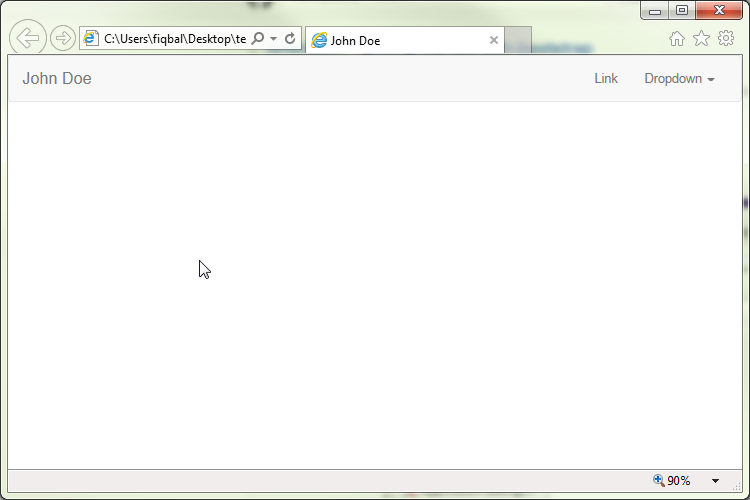
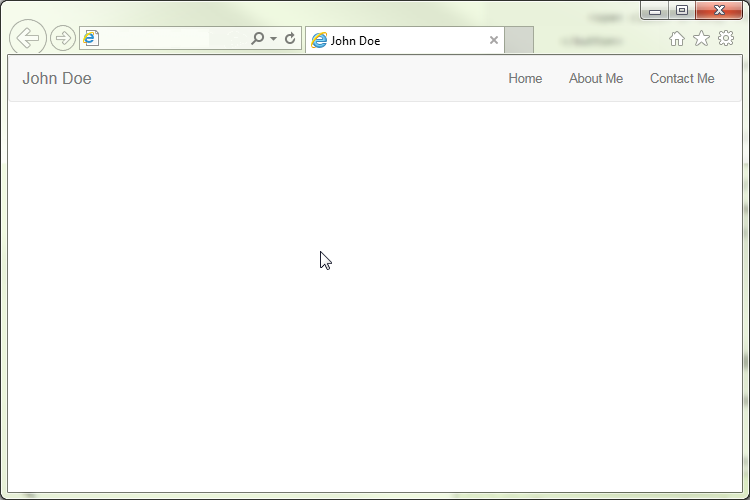
updated book

diff --git a/code/template.html b/code/template.html
@@ -19,7 +19,6 @@
 
 			<div class="collapse navbar-collapse" id="bs-example-navbar-collapse-1">
 				<ul class="nav navbar-nav navbar-right">
-					<li><a href="#">Link</a></li>
 					<li><a href="index.html">Home</a></li>
 					<li><a href="#">About Me</a></li>
 					<li><a href="#">Contact Me</a></li>
@@ -27,6 +26,14 @@
 			</div>
 		</div>
 	</nav>
+
+	<div class="container">
+		<!-- Page content will eventually go in here -->
+
+		<footer class="footer">
+			<p class="text-muted">Copyright 2016, John Doe</p>
+		</footer>
+	</div>
 
 	<!-- Our Javascript Files -->
 	<script type="text/javascript" src="https://code.jquery.com/jquery-2.2.3.min.js"></script>

diff --git a/tutorial/starting_template.md b/tutorial/starting_template.md
@@ -39,47 +39,6 @@ Before we can start code, we need to figure out what will be present in every si
  4. Out of the box, Bootstrap comes with a Navigation bar pre configured, we just need to code it to our liking. First go [here to read up](https://getbootstrap.com/components/#navbar) on how the navigation bar works.
  5. Next, write the following before where your content will go:
    6. ```
-# Starting Template
-
-Now that we have all the folders made and starting files generated, we can start working on a base template. This template is what we will use on every single future page, so that our entire site looks cohesive and well built.
-
-## Design
-
-Before we can start code, we need to figure out what will be present in every single page on our website. For the purposes on this tutorial, here is what every page in our site will have:
-
-* Navigation bar at the top
-* Contents of the page
-* Footer at the bottom with links
-
-## Coding the Template
-
- 1. Open ```template.html``` in your text editor (Sublime Text, Notepad++, etc)
- 2. Copy this code:
-   3. ```
-  <!DOCTYPE html>
-  <html>
-  <head>
-      <meta charset="utf-8">
-      <meta http-equiv="X-UA-Compatible" content="IE=edge">
-      <title>John Doe Personal Site</title>
-      <link href="https://maxcdn.bootstrapcdn.com/bootstrap/3.3.6/css/bootstrap.min.css" rel="stylesheet">
-      <link rel="stylesheet" href="css/portfolio.css">
-  </head>
-  <body>
-      <!-- This is where our page's content will go -->
-
-      <!-- Our Javascript Files -->
-      <script type="text/javascript" src="https://code.jquery.com/jquery-2.2.3.min.js"></script>
-      <script type="text/javascript" src="https://maxcdn.bootstrapcdn.com/bootstrap/3.3.6/js/bootstrap.min.js"></script>
-      <script type="text/javascript" src="js/portfolio.js"></script>
-  </body>
-  </html>
-  ```
-   This is the absolute barebone version of our template. What we are doing here is loading the Bootstrap **CSS** and **JS** files as well as our own files from earlier.
- 3. The next step is to make add the Navigation bar at the top of the page; this is where Boostrap starts to shine. 
- 4. Out of the box, Bootstrap comes with a Navigation bar pre configured, we just need to code it to our liking. First go [here to read up](https://getbootstrap.com/components/#navbar) on how the navigation bar works.
- 5. Next, write the following before where your content will go:
-   6. ```
 	<nav class="navbar navbar-default">
 		<div class="container-fluid">
 			<div class="navbar-header">
@@ -91,7 +50,6 @@ Before we can start code, we need to figure out what will be present in every si
 
 			<div class="collapse navbar-collapse" id="bs-example-navbar-collapse-1">
 				<ul class="nav navbar-nav navbar-right">
-					<li><a href="#">Link</a></li>
 					<li><a href="index.html">Home</a></li>
 					<li><a href="#">About Me</a></li>
 					<li><a href="#">Contact Me</a></li>
@@ -103,3 +61,20 @@ Before we can start code, we need to figure out what will be present in every si
   Here we are creating a new navigation bar with three links on the right and our website's name on the left.
  7. Our website should look like this when you try and open it in a web browser:
    ![](../images/navbar.png)
+ 8. Next we are going to add a placeholder for our content. This can be done by adding the following code after the navigation:
+   9. ```
+	<div class="container">
+		<!-- Page content will eventually go in here -->
+	</div>
+```
+ 10. Finally, for the footer, we will put the following code ***inside*** the container ```div``` we added in the last step
+   11. ```
+		<footer class="footer">
+			<p class="text-muted">Copyright 2016, John Doe</p>
+		</footer>
+```
+
+> #### Success::Our Website So far
+>
+> ![](../images/footer.png)
+> ##### Not super impressive yet, but we are only getting started!

diff --git a/SUMMARY.md b/SUMMARY.md
@@ -7,4 +7,5 @@
 * Tutorial
    * [Environment Setup](tutorial/environment_setup.md)
    * [Starting Template](tutorial/starting_template.md)
+   * [Building the Homepage](tutorial/building_home_page.md)
 
